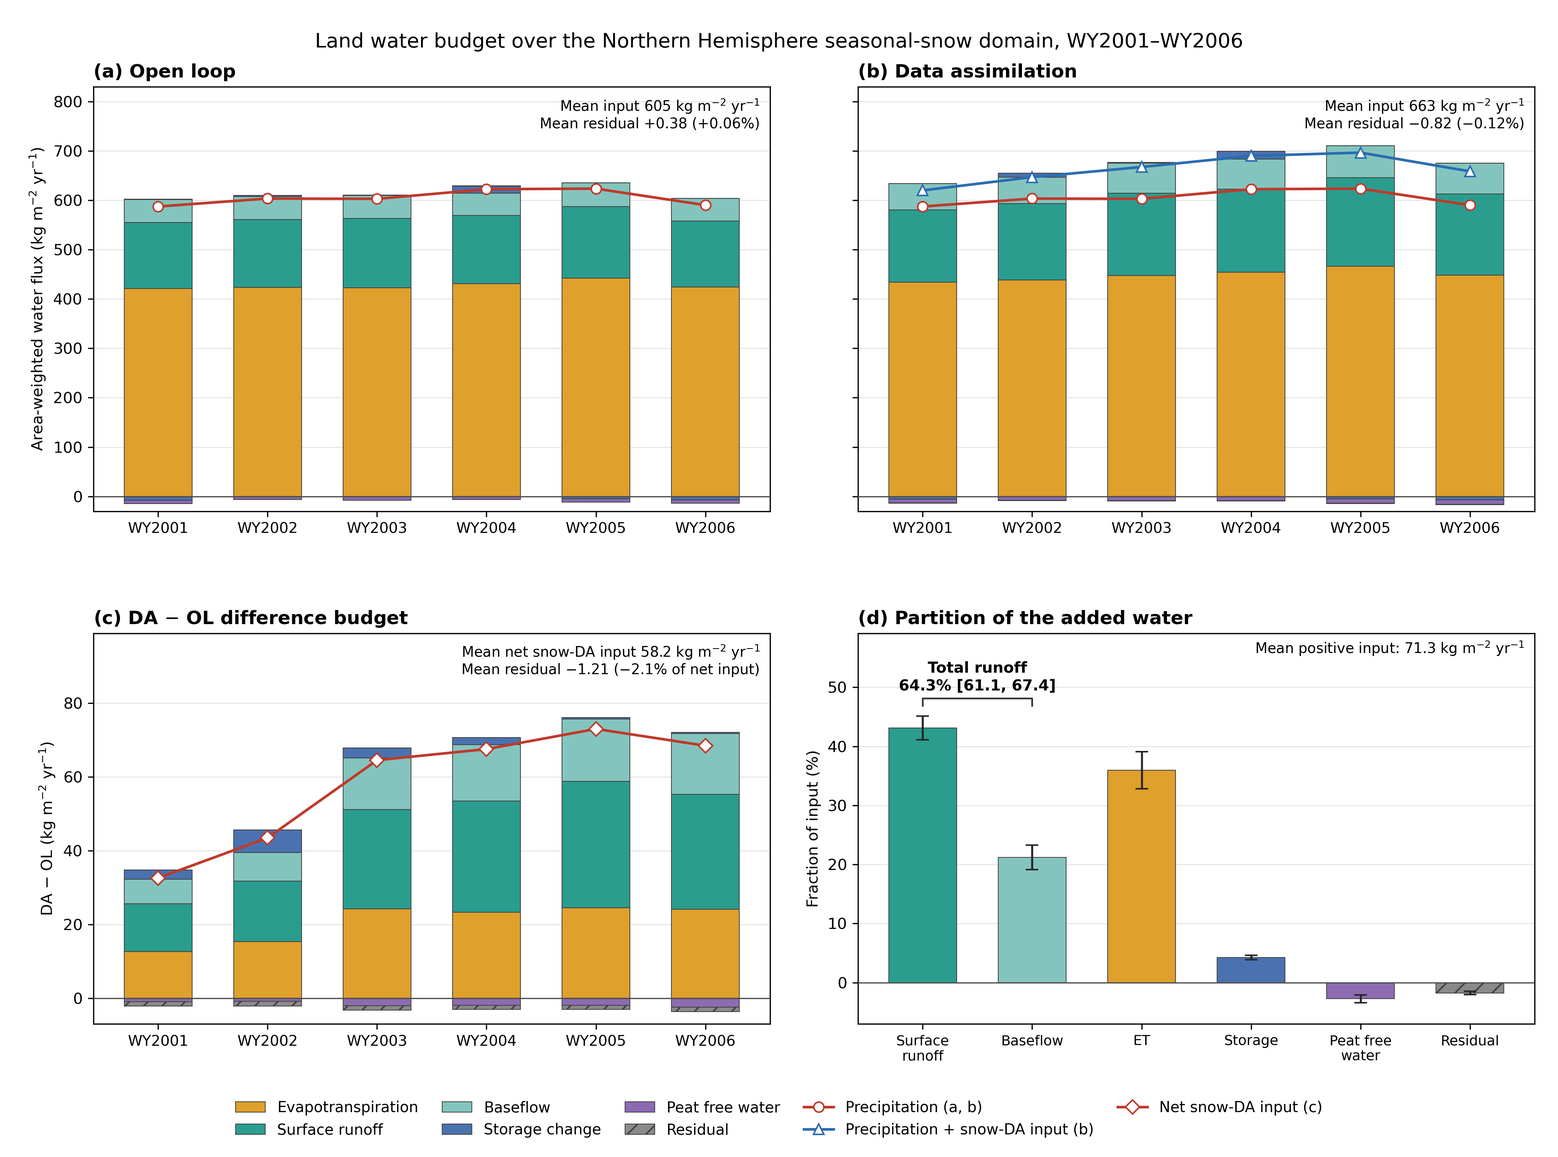
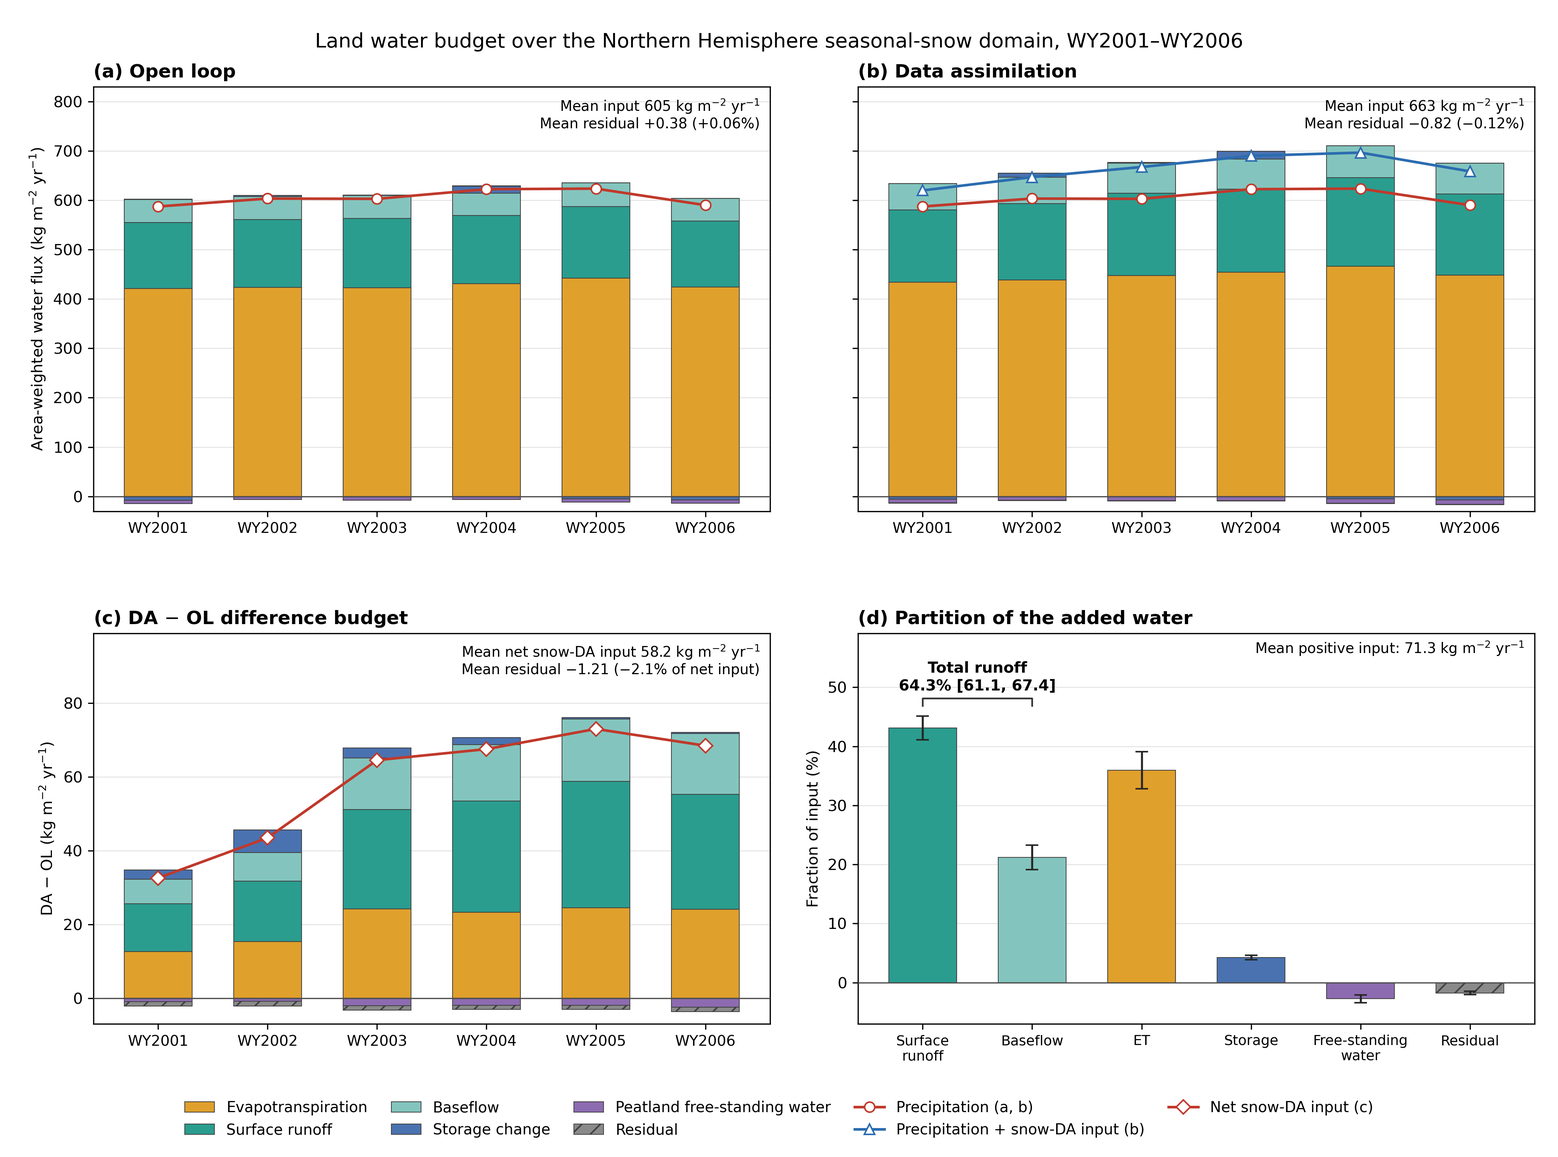
Rename the peat budget term to free-standing water
"Peat free water" was not just imprecise, it inverted the meaning: the
reader attaches "free" to "peat" and gets water free of peat. The model's
own term is free-standing water, in the source comment at catchment.F90:1303
("FSW_CHANGE IS THE CHANGE IN THE FREE-STANDING WATER, RELEVANT FOR PEATLAND
ONLY"), and the manuscript prose already used it. Only the figure labels and
generated tables carried the bad form, which is how it survived review.

Labels now read "Peatland free-standing water", shortened to "Free-standing
water" where column or tick width demands it and the caption supplies the
peatland context.

The identifier is renamed with it, dPeatFreeWater -> dPeatFreeStandingWater
and peat_free_water -> peat_free_standing_water, 32 replacements. Because the
term is a variable inside water_year_tile_budgets.nc this required a full
--rebuild-tile-budget rather than a rerun; the archive now carries only the
new name.

Verified as a pure rename against the pre-rename values. Every partition
fraction and interval is identical: runoff 64.3% [61.1, 67.4], surface 43.1%,
baseflow 21.2%, ET 35.9%, storage 4.2%, free-standing water -2.7%, residual
-1.7%. Annual residual -1.207 (-2.07%), M3 beta -0.0165, closing terms sum to
100.0000%.

Changed region(s): [[0.1248, 0.9327, 0.7174, 0.9949], [0.7486, 0.9327, 0.8733, 0.9638]]

diff --git a/projects/M21C_ls/scripts/water_year_snow_da_budget.py b/projects/M21C_ls/scripts/water_year_snow_da_budget.py
@@ -7,7 +7,7 @@ added to the closing equation because TWLAND already contains soil water.
 The closing equation carries two terms that monthly TWLAND alone cannot
 supply, both sourced from dedicated Discover deliveries:
 
-- dPeatFreeWater: PEATCLSM free-standing surface water. catch_calc_wtotl
+- dPeatFreeStandingWater: PEATCLSM free-standing surface water. catch_calc_wtotl
   deliberately excludes this store from TWLAND, so on peat tiles
   (POROS >= 0.9) water entering or leaving it leaks out of the budget.
 - dStorage: instantaneous 00Z Oct 1 TWLAND reconstructed from
@@ -36,17 +36,17 @@ from analysis_a_robustness import (
 
 
 MONTH_LABELS = ["Oct", "Nov", "Dec", "Jan", "Feb", "Mar", "Apr", "May", "Jun", "Jul", "Aug", "Sep"]
-BUDGET_TERMS = ["I_snow", "dRunoff_total", "dET", "dStorage", "dPeatFreeWater", "residual"]
+BUDGET_TERMS = ["I_snow", "dRunoff_total", "dET", "dStorage", "dPeatFreeStandingWater", "residual"]
 PARTITION_TERMS = [
     "dRunoff_surface",
     "dBaseflow",
     "dET",
     "dStorage",
-    "dPeatFreeWater",
+    "dPeatFreeStandingWater",
     "residual",
 ]
 # Terms whose partition fractions must sum to one against I_snow.
-CLOSING_TERMS = ["dRunoff_total", "dET", "dStorage", "dPeatFreeWater", "residual"]
+CLOSING_TERMS = ["dRunoff_total", "dET", "dStorage", "dPeatFreeStandingWater", "residual"]
 SOIL_METRICS = [
     "peak_dRZMC_positive",
     "mjj_mean_dRZMC",
@@ -274,7 +274,7 @@ def load_budget_dataset(config: dict) -> xr.Dataset:
             "dTWLAND",
             "dWCHANGELAND",
             "dPrecipitation",
-            "dPeatFreeWater",
+            "dPeatFreeStandingWater",
         ]
         monthly = {name: np.full(shape, np.nan, dtype="float32") for name in monthly_names}
         annual_names = [
@@ -289,7 +289,7 @@ def load_budget_dataset(config: dict) -> xr.Dataset:
             "dStorage",
             "dStorage_monthly_proxy",
             "dStorage_process_tendency",
-            "dPeatFreeWater",
+            "dPeatFreeStandingWater",
             "residual",
             "process_balance_diagnostic",
             "dPrecipitation",
@@ -335,13 +335,13 @@ def load_budget_dataset(config: dict) -> xr.Dataset:
             monthly["dTWLAND"][year_index] = (da_water["TWLAND"] - ol_water["TWLAND"]).values
             monthly["dWCHANGELAND"][year_index] = monthly_flux_total(da_water["WCHANGELAND"] - ol_water["WCHANGELAND"]).values
             monthly["dPrecipitation"][year_index] = monthly_flux_total(da_land["PRECTOTCORRLAND"] - ol_land["PRECTOTCORRLAND"]).values
-            monthly["dPeatFreeWater"][year_index] = monthly_flux_total(
+            monthly["dPeatFreeStandingWater"][year_index] = monthly_flux_total(
                 da_fsw["PEATCLSM_FSWCHANGE"] - ol_fsw["PEATCLSM_FSWCHANGE"]
             ).values
 
             annual["I_snow"][year_index] = np.nansum(monthly["snow_net"][year_index], axis=0)
             annual["snow_abs_netpack"][year_index] = np.nansum(monthly["snow_abs_netpack"][year_index], axis=0)
-            for name in ["dSnowmelt", "dInfiltration", "dET", "dRunoff_surface", "dBaseflow", "dRunoff_total", "dWCHANGELAND", "dPrecipitation", "dPeatFreeWater"]:
+            for name in ["dSnowmelt", "dInfiltration", "dET", "dRunoff_surface", "dBaseflow", "dRunoff_total", "dWCHANGELAND", "dPrecipitation", "dPeatFreeStandingWater"]:
                 target = "dStorage_process_tendency" if name == "dWCHANGELAND" else name
                 annual[target][year_index] = np.nansum(monthly[name][year_index], axis=0)
 
@@ -358,7 +358,7 @@ def load_budget_dataset(config: dict) -> xr.Dataset:
                 - annual["dET"][year_index]
                 - annual["dRunoff_total"][year_index]
                 - annual["dStorage"][year_index]
-                - annual["dPeatFreeWater"][year_index]
+                - annual["dPeatFreeStandingWater"][year_index]
             )
             annual["process_balance_diagnostic"][year_index] = (
                 annual["dET"][year_index]
@@ -406,8 +406,8 @@ def load_budget_dataset(config: dict) -> xr.Dataset:
                 "domain": "Analysis A Northern Hemisphere seasonal-snow mask",
                 "storage_closing_term": config["storage"]["primary_closing_term"],
                 "storage_endpoint_source": opened["ol_twland_rst"].attrs.get("formula", ""),
-                "peat_free_water_role": config["peat_free_water"]["role"],
-                "peat_free_water_source": opened["ol_fsw"].attrs.get("note", ""),
+                "peat_free_standing_water_role": config["peat_free_standing_water"]["role"],
+                "peat_free_standing_water_source": opened["ol_fsw"].attrs.get("note", ""),
                 "storage_limitation": config["storage"]["state_proxy_limitation"],
                 "wchangeland_role": config["storage"]["wchangeland_role"],
                 "soil_moisture_role": "SFMC/RZMC are diagnostic states and are excluded from the mass-closing equation",
@@ -429,7 +429,7 @@ def load_budget_dataset(config: dict) -> xr.Dataset:
             "dStorage": "kg m-2",
             "dStorage_monthly_proxy": "kg m-2",
             "dStorage_process_tendency": "kg m-2",
-            "dPeatFreeWater": "kg m-2",
+            "dPeatFreeStandingWater": "kg m-2",
             "residual": "kg m-2",
             "process_balance_diagnostic": "kg m-2",
             "dPrecipitation": "kg m-2",
@@ -525,7 +525,7 @@ def absolute_domain_budgets(config: dict) -> pd.DataFrame:
                 row["storage"] = weighted_mean(
                     twland[restart_index[water_year]] - twland[restart_index[water_year - 1]], area
                 )
-                row["peat_free_water"] = weighted_mean(
+                row["peat_free_standing_water"] = weighted_mean(
                     sum_monthly_flux(fsw["PEATCLSM_FSWCHANGE"].sel(**select)).values[tile_indices], area
                 )
                 row["runoff_total"] = row["runoff_surface"] + row["baseflow"]
@@ -535,7 +535,7 @@ def absolute_domain_budgets(config: dict) -> pd.DataFrame:
                     - row["ET"]
                     - row["runoff_total"]
                     - row["storage"]
-                    - row["peat_free_water"]
+                    - row["peat_free_standing_water"]
                 )
                 row["fraction_residual"] = row["residual"] / row["input_total"]
                 rows.append(row)
@@ -568,7 +568,7 @@ def check_absolute_matches_differential(annual: pd.DataFrame, absolute: pd.DataF
         ("dRunoff_surface", "runoff_surface"),
         ("dBaseflow", "baseflow"),
         ("dStorage", "storage"),
-        ("dPeatFreeWater", "peat_free_water"),
+        ("dPeatFreeStandingWater", "peat_free_standing_water"),
         ("residual", "residual"),
         ("I_snow", "I_snow"),
     ]
@@ -724,7 +724,7 @@ def m3_regressions(dataset: xr.Dataset, config: dict) -> pd.DataFrame:
         "dBaseflow",
         "dET",
         "dStorage",
-        "dPeatFreeWater",
+        "dPeatFreeStandingWater",
         "residual",
     ] + SOIL_METRICS
     frame = dataset_to_frame(dataset, variables).dropna().copy()
@@ -800,7 +800,7 @@ def monthly_climatologies(dataset: xr.Dataset) -> tuple[pd.DataFrame, pd.DataFra
         "dInfiltration_monthly",
         "dET_monthly",
         "dRunoff_total_monthly",
-        "dPeatFreeWater_monthly",
+        "dPeatFreeStandingWater_monthly",
         "dSFMC_monthly",
         "dRZMC_monthly",
     ]
@@ -961,7 +961,7 @@ def plot_monthly_climatology(data: pd.DataFrame, path: Path) -> None:
 
 def plot_annual_budgets(annual: pd.DataFrame, path: Path) -> None:
     terms = ["I_snow"] + CLOSING_TERMS
-    labels = ["Snow-DA input", "Runoff", "ET", "Storage change", "Peat free water", "Residual"]
+    labels = ["Snow-DA input", "Runoff", "ET", "Storage change", "Peatland free-standing water", "Residual"]
     colors = ["#264653", "#2a9d8f", "#e9c46a", "#457b9d", "#8d6bb1", "#d1495b"]
     x = np.arange(len(annual))
     width = 0.14
@@ -983,7 +983,7 @@ def plot_positive_partition(partition: pd.DataFrame, uncertainty: pd.DataFrame, 
     row = partition.set_index("sample").loc["addition"]
     uncertainty = uncertainty[uncertainty["sample"] == "addition"].set_index("variable")
     terms = PARTITION_TERMS
-    labels = ["Surface runoff", "Baseflow", "ET", "Storage", "Peat free water", "Residual"]
+    labels = ["Surface runoff", "Baseflow", "ET", "Storage", "Peatland free-standing water", "Residual"]
     colors = ["#2a9d8f", "#57a773", "#e9c46a", "#457b9d", "#8d6bb1", "#d1495b"]
     values = np.array([row[f"fraction_{term}"] for term in terms])
     low = np.array([uncertainty.loc[term, "ci_low"] for term in terms])
@@ -1082,18 +1082,18 @@ def write_report_fragment(
         "",
         "### Peat free-standing water",
         "",
-        "`catch_calc_wtotl` builds TWLAND from soil, canopy, and snow stores only; PEATCLSM free-standing surface water is deliberately excluded. On peat tiles (`POROS >= 0.9`) water moving into or out of that store therefore leaves the TWLAND-based budget entirely and lands in the residual. `PEATCLSM_FSWCHANGE` closes that gap and enters the budget as `dPeatFreeWater`. It is zero by construction on non-peat tiles, matching the model's own `FSW_CHANGE = 0.` initialization.",
+        "`catch_calc_wtotl` builds TWLAND from soil, canopy, and snow stores only; PEATCLSM free-standing surface water is deliberately excluded. On peat tiles (`POROS >= 0.9`) water moving into or out of that store therefore leaves the TWLAND-based budget entirely and lands in the residual. `PEATCLSM_FSWCHANGE` closes that gap and enters the budget as `dPeatFreeStandingWater`. It is zero by construction on non-peat tiles, matching the model's own `FSW_CHANGE = 0.` initialization.",
         "",
         "### Annual domain budgets",
         "",
-        "| Water year | Snow-DA input | Extra runoff | Extra ET | Storage change | Peat free water | Residual | Residual / input |",
+        "| Water year | Snow-DA input | Extra runoff | Extra ET | Storage change | Free-standing water | Residual | Residual / input |",
         "|---|---:|---:|---:|---:|---:|---:|---:|",
     ]
     for _, row in annual.iterrows():
         label = f"WY{row['water_year']}" if isinstance(row["water_year"], (int, np.integer)) else str(row["water_year"])
         fraction = row["residual"] / row["I_snow"]
         lines.append(
-            f"| {label} | {row['I_snow']:.2f} | {row['dRunoff_total']:.2f} | {row['dET']:.2f} | {row['dStorage']:.2f} | {row['dPeatFreeWater']:.2f} | {row['residual']:.2f} | {100 * fraction:.1f}% |"
+            f"| {label} | {row['I_snow']:.2f} | {row['dRunoff_total']:.2f} | {row['dET']:.2f} | {row['dStorage']:.2f} | {row['dPeatFreeStandingWater']:.2f} | {row['residual']:.2f} | {100 * fraction:.1f}% |"
         )
     lines.extend(
         [
@@ -1108,14 +1108,14 @@ def write_report_fragment(
             "",
             "The differential budget cancels precipitation and every process common to both runs, so its residual is magnified twice over: the two per-run closure offsets carry opposite signs and therefore add, and the sum is then divided by the much smaller snow-DA input rather than by total input. Each run closes far more tightly on its own.",
             "",
-            "| Run | Total input | ET | Runoff | Storage | Peat free water | Residual | Residual / input |",
+            "| Run | Total input | ET | Runoff | Storage | Free-standing water | Residual | Residual / input |",
             "|---|---:|---:|---:|---:|---:|---:|---:|",
         ]
     )
     for _, row in absolute[absolute["water_year"] == "6-WY mean"].iterrows():
         lines.append(
             f"| {row['run']} | {row['input_total']:.2f} | {row['ET']:.2f} | {row['runoff_total']:.2f} | "
-            f"{row['storage']:.2f} | {row['peat_free_water']:.2f} | {row['residual']:+.2f} | "
+            f"{row['storage']:.2f} | {row['peat_free_standing_water']:.2f} | {row['residual']:+.2f} | "
             f"{100 * row['fraction_residual']:+.3f}% |"
         )
     lines.extend(
@@ -1133,7 +1133,7 @@ def write_report_fragment(
         ("dBaseflow", "baseflow"),
         ("dET", "ET"),
         ("dStorage", "storage"),
-        ("dPeatFreeWater", "peat free water"),
+        ("dPeatFreeStandingWater", "peatland free-standing water"),
         ("residual", "residual"),
     ]:
         lines.append(
@@ -1145,14 +1145,14 @@ def write_report_fragment(
             "",
             "![Positive-input six-year partition](monthly_synthesis_report_figures/water_year_budget_positive_partition.png)",
             "",
-            "| Sample | Native signed input | Runoff | ET | Storage | Peat free water | Residual |",
+            "| Sample | Native signed input | Runoff | ET | Storage | Free-standing water | Residual |",
             "|---|---:|---:|---:|---:|---:|---:|",
         ]
     )
     for sample, label in [("all", "All-sample net"), ("addition", "Snow addition"), ("removal", "Snow removal")]:
         row = partition.set_index("sample").loc[sample]
         lines.append(
-            f"| {label} | {row['I_snow']:.2f} kg m-2 | {100 * row['fraction_dRunoff_total']:.1f}% | {100 * row['fraction_dET']:.1f}% | {100 * row['fraction_dStorage']:.1f}% | {100 * row['fraction_dPeatFreeWater']:.1f}% | {100 * row['fraction_residual']:.1f}% |"
+            f"| {label} | {row['I_snow']:.2f} kg m-2 | {100 * row['fraction_dRunoff_total']:.1f}% | {100 * row['fraction_dET']:.1f}% | {100 * row['fraction_dStorage']:.1f}% | {100 * row['fraction_dPeatFreeStandingWater']:.1f}% | {100 * row['fraction_residual']:.1f}% |"
         )
     lines.extend(
         [
@@ -1165,7 +1165,7 @@ def write_report_fragment(
             "|---|---:|---:|",
         ]
     )
-    for variable, label in [("dRunoff_total", "Runoff"), ("dET", "ET"), ("dStorage", "Storage"), ("dPeatFreeWater", "Peat free water"), ("residual", "Residual")]:
+    for variable, label in [("dRunoff_total", "Runoff"), ("dET", "ET"), ("dStorage", "Storage"), ("dPeatFreeStandingWater", "Peatland free-standing water"), ("residual", "Residual")]:
         row = primary_reg.loc[variable]
         lines.append(f"| {label} | {row['m3_beta']:.3f} | [{row['ci_low']:.3f}, {row['ci_high']:.3f}] |")
     lines.extend(

diff --git a/projects/M21C_ls/scripts/plot_fig14_4panel.py b/projects/M21C_ls/scripts/plot_fig14_4panel.py
@@ -24,13 +24,13 @@ _abs = YEAR_ROWS(pd.read_csv(BUDGET / "annual_absolute_budgets.csv"))
 W = {
     run: _abs[_abs["run"] == run].sort_values("water_year")[
         ["precipitation", "I_snow", "ET", "runoff_surface", "baseflow",
-         "storage", "peat_free_water", "residual"]
+         "storage", "peat_free_standing_water", "residual"]
     ].to_numpy()
     for run in ("OL", "DA")
 }
 # (c): DA - OL differential budget
 Cd = YEAR_ROWS(pd.read_csv(BUDGET / "annual_domain_budgets.csv")).sort_values("water_year")[
-    ["I_snow", "dRunoff_surface", "dBaseflow", "dET", "dStorage", "dPeatFreeWater", "residual"]
+    ["I_snow", "dRunoff_surface", "dBaseflow", "dET", "dStorage", "dPeatFreeStandingWater", "residual"]
 ].to_numpy()
 # (d): snow-addition partition with 5-degree spatial-block intervals
 _part = pd.read_csv(BUDGET / "six_year_integrated_partitions.csv").set_index("sample").loc["addition"]
@@ -39,7 +39,7 @@ _unc = _unc[(_unc["sample"] == "addition") & (_unc["block_degrees"] == 5.0)].set
 B = np.array([
     [_part[f"fraction_{term}"], _unc.loc[term, "ci_low"], _unc.loc[term, "ci_high"]]
     for term in ["dRunoff_surface", "dBaseflow", "dET", "dStorage",
-                 "dPeatFreeWater", "residual", "dRunoff_total"]
+                 "dPeatFreeStandingWater", "residual", "dRunoff_total"]
 ])
 POSITIVE_INPUT = float(_part["I_snow"])
 YEARS = [f"WY{y}" for y in range(2001, 2007)]
@@ -48,7 +48,7 @@ C = dict(et="#e0a02c", rs="#2a9d8f", rb="#83c5be", ds="#4a72b0",
          fsw="#8d6bb1", res="#8a8a8a", P="#c0392b", I="#2b6cb0")
 TERMS = (("et", "Evapotranspiration", None), ("rs", "Surface runoff", None),
          ("rb", "Baseflow", None), ("ds", "Storage change", None),
-         ("fsw", "Peat free water", None), ("res", "Residual", "//"))
+         ("fsw", "Peatland free-standing water", None), ("res", "Residual", "//"))
 
 fig = plt.figure(figsize=(14.0, 10.4))
 gs = fig.add_gridspec(2, 2, hspace=0.30, wspace=0.13,
@@ -109,7 +109,7 @@ axC.text(0.985, 0.975,
          transform=axC.transAxes, ha="right", va="top", fontsize=9.2)
 
 # ---- (d) partition ----
-labs = ["Surface\nrunoff", "Baseflow", "ET", "Storage", "Peat free\nwater", "Residual"]
+labs = ["Surface\nrunoff", "Baseflow", "ET", "Storage", "Free-standing\nwater", "Residual"]
 cols = [C["rs"], C["rb"], C["et"], C["ds"], C["fsw"], C["res"]]
 v, lo, hi = B[:6, 0] * 100, B[:6, 1] * 100, B[:6, 2] * 100
 xb = np.arange(6)

diff --git a/projects/M21C_ls/docs/monthly_synthesis_report_out.md b/projects/M21C_ls/docs/monthly_synthesis_report_out.md
@@ -210,11 +210,11 @@ That endpoint is now the instantaneous 00Z October 1 state reconstructed from `c
 
 ### Peat free-standing water
 
-`catch_calc_wtotl` builds TWLAND from soil, canopy, and snow stores only; PEATCLSM free-standing surface water is deliberately excluded. On peat tiles (`POROS >= 0.9`) water moving into or out of that store therefore leaves the TWLAND-based budget entirely and lands in the residual. `PEATCLSM_FSWCHANGE` closes that gap and enters the budget as `dPeatFreeWater`. It is zero by construction on non-peat tiles, matching the model's own `FSW_CHANGE = 0.` initialization.
+`catch_calc_wtotl` builds TWLAND from soil, canopy, and snow stores only; PEATCLSM free-standing surface water is deliberately excluded. On peat tiles (`POROS >= 0.9`) water moving into or out of that store therefore leaves the TWLAND-based budget entirely and lands in the residual. `PEATCLSM_FSWCHANGE` closes that gap and enters the budget as `dPeatFreeStandingWater`. It is zero by construction on non-peat tiles, matching the model's own `FSW_CHANGE = 0.` initialization.
 
 ### Annual domain budgets
 
-| Water year | Snow-DA input | Extra runoff | Extra ET | Storage change | Peat free water | Residual | Residual / input |
+| Water year | Snow-DA input | Extra runoff | Extra ET | Storage change | Free-standing water | Residual | Residual / input |
 |---|---:|---:|---:|---:|---:|---:|---:|
 | WY2001 | 32.57 | 19.61 | 12.60 | 2.56 | -0.95 | -1.25 | -3.8% |
 | WY2002 | 43.46 | 24.14 | 15.31 | 6.12 | -0.84 | -1.27 | -2.9% |
@@ -234,7 +234,7 @@ The annual budget residual ranges from -3.8% to -1.6% of domain snow input. Conc
 
 The differential budget cancels precipitation and every process common to both runs, so its residual is magnified twice over: the two per-run closure offsets carry opposite signs and therefore add, and the sum is then divided by the much smaller snow-DA input rather than by total input. Each run closes far more tightly on its own.
 
-| Run | Total input | ET | Runoff | Storage | Peat free water | Residual | Residual / input |
+| Run | Total input | ET | Runoff | Storage | Free-standing water | Residual | Residual / input |
 |---|---:|---:|---:|---:|---:|---:|---:|
 | OL | 605.03 | 427.46 | 184.64 | -0.76 | -6.70 | +0.38 | +0.063% |
 | DA | 663.26 | 448.13 | 222.79 | 1.57 | -8.39 | -0.82 | -0.124% |
@@ -248,12 +248,12 @@ All values are six-water-year means in kg m-2 water year-1 over the seasonal-sno
 - baseflow: 21.2% [5-degree spatial-block 95% interval 19.1%, 23.3%]
 - ET: 35.9% [5-degree spatial-block 95% interval 32.8%, 39.1%]
 - storage: 4.2% [5-degree spatial-block 95% interval 3.9%, 4.6%]
-- peat free water: -2.7% [5-degree spatial-block 95% interval -3.4%, -2.1%]
+- peatland free-standing water: -2.7% [5-degree spatial-block 95% interval -3.4%, -2.1%]
 - residual: -1.7% [5-degree spatial-block 95% interval -2.0%, -1.5%]
 
 ![Positive-input six-year partition](monthly_synthesis_report_figures/water_year_budget_positive_partition.png)
 
-| Sample | Native signed input | Runoff | ET | Storage | Peat free water | Residual |
+| Sample | Native signed input | Runoff | ET | Storage | Free-standing water | Residual |
 |---|---:|---:|---:|---:|---:|---:|
 | All-sample net | 58.24 kg m-2 | 65.5% | 35.5% | 4.0% | -2.9% | -2.1% |
 | Snow addition | 71.32 kg m-2 | 64.3% | 35.9% | 4.2% | -2.7% | -1.7% |
@@ -268,7 +268,7 @@ Fractions use native signed mass and are never based on absolute snow activity. 
 | Runoff | 0.749 | [0.711, 0.783] |
 | ET | 0.182 | [0.155, 0.213] |
 | Storage | 0.085 | [0.074, 0.097] |
-| Peat free water | -0.017 | [-0.022, -0.012] |
+| Peatland free-standing water | -0.017 | [-0.022, -0.012] |
 | Residual | 0.001 | [0.000, 0.001] |
 
 These dimensionless M3 slopes use within-tile signed snow input, year effects, and OL MAM snow amount. By construction, the runoff, ET, storage, peat free-water, and residual slopes sum to one; the direct domain accounting remains the primary budget result.

diff --git a/projects/M21C_ls/docs/monthly_synthesis_snow_sm_diagnostics.md b/projects/M21C_ls/docs/monthly_synthesis_snow_sm_diagnostics.md
@@ -241,9 +241,9 @@ Every tile-year retains the native signed `snow_net` input, absolute snow
 activity, snowmelt, infiltration, ET, surface runoff, baseflow, total runoff,
 storage change, residual, and monthly SFMC/RZMC trajectories.
 
-The closing equation is `I_snow = dET + dRunoff + dStorage + dPeatFreeWater +
+The closing equation is `I_snow = dET + dRunoff + dStorage + dPeatFreeStandingWater +
 residual`. `dStorage` is the change in `DA - OL TWLAND` between instantaneous
-00Z 1 October restart endpoints. `dPeatFreeWater` is the change in PEATCLSM
+00Z 1 October restart endpoints. `dPeatFreeStandingWater` is the change in PEATCLSM
 free-standing surface water, a store that `TWLAND` excludes by construction. Integrated `DA - OL WCHANGELAND` is retained separately because the
 source audit showed that it closes the model-process tendency balance but
 omits the discontinuous analysis injection. Snowmelt and infiltration are
